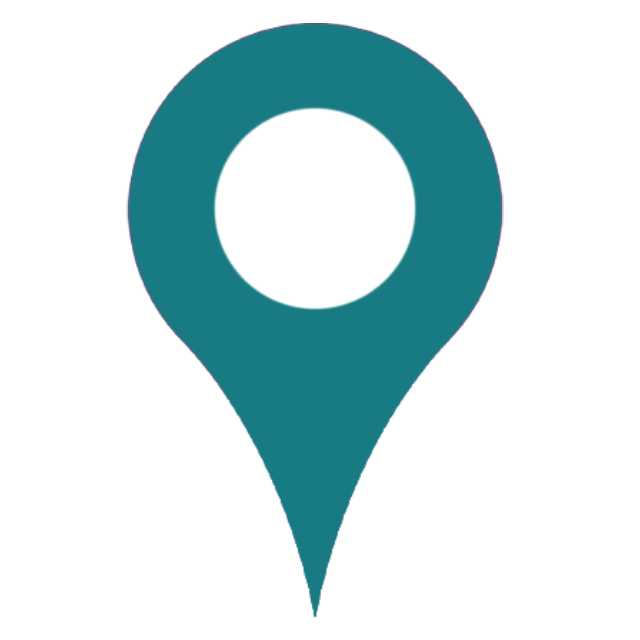
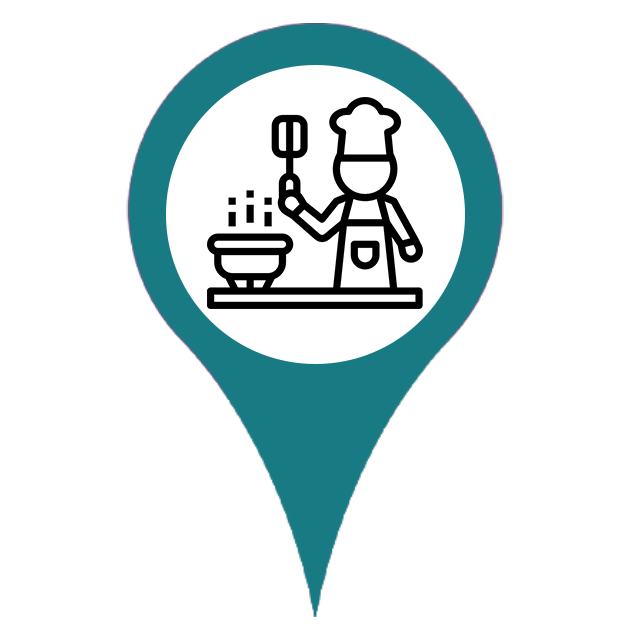
:wrench: style /map + add api /bares

Changed region(s): [[0.25, 0.0938, 0.75, 0.5938]]

diff --git a/Client/src/screens/Map/index.tsx b/Client/src/screens/Map/index.tsx
@@ -19,6 +19,7 @@ import './styles.css'
 import marcadorHotel from '../../assets/marcadores/verde.png'
 import marcadorTurismo from '../../assets/marcadores/vermelho.png'
 import marcadorRestaurantes from '../../assets/marcadores/azul ciano.png'
+import marcadorBares from '../../assets/marcadores/laranja.png'
 
 interface Props {
   id: number
@@ -33,29 +34,45 @@ interface Props {
 export default function Map() {
   const [turismo, setTurismo] = useState<Props[]>([])
   const [restaurantes, setRestaurantes] = useState<Props[]>([])
+  const [bares, setBares] = useState<Props[]>([])
   const [hoteis, setHoteis] = useState<Props[]>()
   const [loading, setLoading] = useState(false)
 
   const hotelIcon = Leaflet.icon({
     iconUrl: marcadorHotel,
-    iconSize: [38, 38],
+    iconSize: [80, 80],
+    iconAnchor: [40, 65],
+    popupAnchor: [0, -55],
   })
 
   const turismoIcon = Leaflet.icon({
     iconUrl: marcadorTurismo,
-    iconSize: [38, 38],
+    iconSize: [80, 80],
+    iconAnchor: [40, 65],
+    popupAnchor: [0, -55],
   })
 
   const restauranteIcon = Leaflet.icon({
     iconUrl: marcadorRestaurantes,
-    iconSize: [38, 38],
+    iconSize: [80, 80],
+    iconAnchor: [40, 65],
+    popupAnchor: [0, -55],
   })
+
+  const barIcon = Leaflet.icon({
+    iconUrl: marcadorBares,
+    iconSize: [80, 80],
+    iconAnchor: [40, 65],
+    popupAnchor: [0, -55],
+  })
+
 
   useEffect(() => {
     api.get('/atracoes').then((response) => {
       setTurismo(response.data.atracoes)
       loadRestaurantes()
       loadHotel()
+      loadBares()
       setLoading(true)
     })
   }, [])
@@ -67,6 +84,12 @@ export default function Map() {
   async function loadRestaurantes() {
     api.get('/restaurantes').then((response) => {
       setRestaurantes(response.data.restaurantes)
+    })
+  }
+
+  async function loadBares() {
+    api.get('/bares').then((response) => {
+      setBares(response.data.bares)
     })
   }
 
@@ -170,6 +193,48 @@ export default function Map() {
                       <BiSearchAlt2 /> Ver mais
                     </Link>
                     <a href={`https://www.google.com/maps/dir/?api=1&destination=${restaurante?.latitude},${restaurante?.longitude}`} className='flex text-sm items-center justify-center'>
+                      <BiMap /> Abrir rota
+                    </a>
+                  </div>
+                </div>
+              </Popup>
+            </Marker>
+          )
+        })}
+        {bares?.map((bar) => {
+          return (
+            <Marker
+              position={[bar.latitude, bar.longitude]}
+              key={bar.id}
+              icon={barIcon}
+            >
+              <Popup
+                closeButton={false}
+                minWidth={240}
+                maxHeight={240}
+                className="mapPopup bar"
+              >
+                <div className='grid grid-cols-1 content-center w-full'>
+                  <span>{bar.nome}</span>
+                  <div className='grid grid-cols-2 gap-4 my-2'>
+                    <div className='flex items-center text-sm gap-1 justify-center'>
+                      <BiPhoneCall size={20} />
+                      <span className='whitespace-nowrap'>
+                        {bar.telefone}
+                      </span>
+                    </div>
+                    <div className='flex items-center text-sm gap-1 justify-center'>
+                      <TbToolsKitchen size={20} />
+                      <span className='whitespace-nowrap'>
+                        {bar.cozinhas}
+                      </span>
+                    </div>
+                  </div>
+                  <div className='grid grid-cols-2'>
+                    <Link to={`/bar/detalhe/${bar.id}`} className='flex text-sm items-center justify-center'>
+                      <BiSearchAlt2 /> Ver mais
+                    </Link>
+                    <a href={`https://www.google.com/maps/dir/?api=1&destination=${bar?.latitude},${bar?.longitude}`} className='flex text-sm items-center justify-center'>
                       <BiMap /> Abrir rota
                     </a>
                   </div>

diff --git a/Client/src/screens/Map/styles.css b/Client/src/screens/Map/styles.css
@@ -51,6 +51,13 @@
     background: #529499;
 }
 
+.bar .leaflet-popup-content {
+    color: #d68b23;
+}
+
+.bar .leaflet-popup-content a{
+    background: #d68b23;
+}
 .turismo .leaflet-popup-content {
     color: rgb(187, 0, 0);
 }
